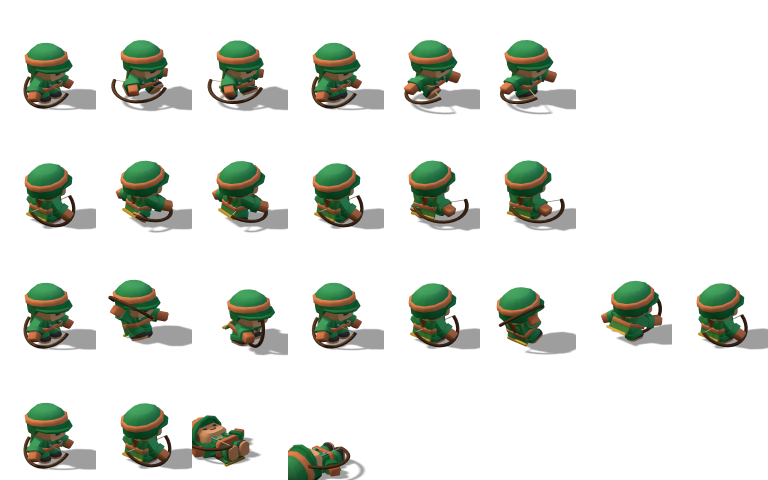
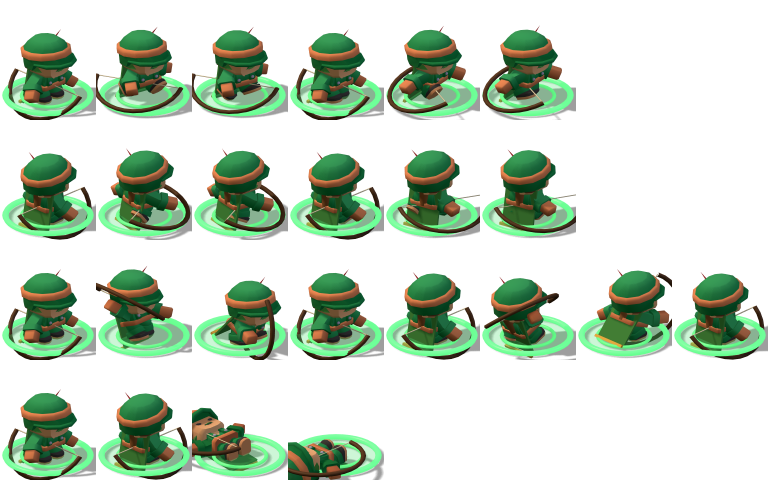
Héroes con diseño propio: más grandes, anillo de luz y piezas únicas (penacho, alas, llamas, cuernos)

diff --git a/tools/iso/designs.js b/tools/iso/designs.js
@@ -119,6 +119,72 @@ function quiver(arrowColor = C.marfil, tilt = 0.35) {
   return q;
 }
 
+/* ---------- piezas de héroe: lo que los distingue a primera vista de las tropas ---------- */
+
+/** Anillo luminoso en el suelo bajo el héroe (su color lo identifica de lejos). */
+function groundRing(color, r = 0.4) {
+  const g = new T.Group();
+  const ring = mesh(new T.TorusGeometry(r, 0.03, 8, 40), glow(color, 1.3), 0, 0.035, 0);
+  ring.rotation.x = Math.PI / 2;
+  const inner = mesh(new T.TorusGeometry(r * 0.62, 0.018, 8, 32), glow(color, 0.9), 0, 0.03, 0);
+  inner.rotation.x = Math.PI / 2;
+  const disc = mesh(new T.CircleGeometry(r, 36), new T.MeshBasicMaterial({ color, transparent: true, opacity: 0.3 }), 0, 0.02, 0);
+  disc.rotation.x = -Math.PI / 2;
+  g.add(disc, ring, inner);
+  return g;
+}
+/** Penacho de casco. */
+function plume(color = C.rojo) {
+  const g = new T.Group();
+  g.add(mesh(new T.CylinderGeometry(0.03, 0.04, 0.05, 8), mat(C.oro), 0, 0, 0));
+  for (const [x, y, rot, h] of [[0, 0.12, 0.5, 0.26], [0, 0.1, 0.25, 0.22], [0, 0.07, 0.8, 0.18]]) {
+    const f = mesh(new T.ConeGeometry(0.045, h, 6), mat(color, { roughness: 0.9, metalness: 0 }), x, y, -0.04);
+    f.rotation.x = -rot;
+    g.add(f);
+  }
+  return g;
+}
+/** Corona de oro con puntas. */
+function crown(gem = C.cian) {
+  const g = new T.Group();
+  g.add(mesh(new T.CylinderGeometry(0.1, 0.1, 0.05, 10, 1, true), mat(C.oro, { metalness: 0.5, side: T.DoubleSide }), 0, 0, 0));
+  for (let k = 0; k < 6; k++) {
+    const a = (k / 6) * Math.PI * 2;
+    g.add(mesh(new T.ConeGeometry(0.022, 0.08, 5), mat(C.oro, { metalness: 0.5 }), Math.cos(a) * 0.1, 0.06, Math.sin(a) * 0.1));
+  }
+  g.add(mesh(new T.OctahedronGeometry(0.03), glow(gem, 1.2), 0, 0.02, 0.1));
+  return g;
+}
+/** Cuernos de casco. */
+function horns(color = C.marfil) {
+  const g = new T.Group();
+  for (const sx of [-1, 1]) {
+    const h = mesh(new T.ConeGeometry(0.045, 0.24, 7), mat(color), sx * 0.15, 0.08, 0);
+    h.rotation.z = -sx * 0.9;
+    g.add(h);
+  }
+  return g;
+}
+/** Alas de plumas en la espalda. */
+function wings(color = C.marfil, tip = C.oro) {
+  const g = new T.Group();
+  for (const sx of [-1, 1]) {
+    for (let k = 0; k < 4; k++) {
+      const f = mesh(new T.BoxGeometry(0.2 - k * 0.015, 0.012, 0.07), mat(k === 3 ? tip : color, { roughness: 0.8, metalness: 0 }), sx * (0.15 + k * 0.06), 0.14 - k * 0.07, 0);
+      f.rotation.z = -sx * (0.45 + k * 0.28);
+      g.add(f);
+    }
+  }
+  return g;
+}
+/** Llama que arde sobre la mano del piromante. */
+function flame() {
+  const g = new T.Group();
+  g.add(mesh(new T.SphereGeometry(0.075, 12, 10), glow(C.fuego, 1.6), 0, 0, 0));
+  for (const [x, z, h, col] of [[0, 0, 0.24, 0xffcf4a], [0.05, 0.02, 0.16, C.fuego], [-0.05, -0.02, 0.18, C.fuego]]) g.add(mesh(new T.ConeGeometry(0.05, h, 7), glow(col, 1.4), x, 0.1 + h / 2 - 0.05, z));
+  return g;
+}
+
 /** Cuelga `item` de un hueso: p = [x, y, z], r = [rx, ry, rz] en grados. */
 function attach(obj, boneName, item, p = [0, 0, 0], r = [0, 0, 0], s = 1) {
   item.position.set(...p);
@@ -174,42 +240,58 @@ export const DESIGNS = {
   },
   async worker_3() { return { obj: await base('character-female-b'), scale: 1.1, worker: true }; },
   async worker_4() { return { obj: await base('character-male-f'), scale: 1.1, worker: true }; },
-  // Héroes
+  // Héroes: más grandes que las tropas, con anillo de luz en el suelo y piezas propias (penacho, alas, llamas, cuernos…)
   async unit_hero() {
-    const o = await base('character-knight', palette([[18, 40, 46, 1.1, 1.1]], oroGris));
-    inHand(o, sword(0xbfe9ff, C.oro, 0.36), 1.3);
-    onArm(o, shield(C.marfil, true, C.oro), 1.3);
-    withCape(o, cape(C.marfil, C.oro, 0.3, 0.38));
-    attach(o, 'head', halo(), [0, 0.28, 0], [90, 0, 0]);
-    return { obj: o, scale: 1.4 };
+    // Paladín: armadura dorada, casco con penacho, escudo con emblema, espada de luz y capa blanca
+    const o = await base('character-knight', palette([[18, 40, 46, 1.2, 1.15]], oroGris));
+    inHand(o, sword(0xbfe9ff, C.oro, 0.4), 1.45);
+    onArm(o, shield(C.marfil, true, C.oro), 1.45);
+    withCape(o, cape(C.marfil, C.oro, 0.36, 0.46));
+    attach(o, 'head', plume(C.rojo), [0, 0.26, -0.02], [0, 0, 0], 1.2);
+    attach(o, 'torso', shoulderPads(C.oro), [0, 0.28, 0], [0, 0, 0], 1.15);
+    attach(o, 'head', halo(), [0, 0.42, 0], [90, 0, 0]);
+    o.add(groundRing(C.oro));
+    return { obj: o, scale: 1.7 };
   },
   async hero_ranger() {
-    const o = await base('character-soldier', palette([[85, 170, 150, 1.2, 0.9]]));
-    inHand(o, bow(0x5a3a22, 0.46), 1.3);
-    withCape(o, cape(C.verde, C.oro, 0.28, 0.36));
-    attach(o, 'torso', quiver(C.oro, -0.35), [0, 0.15, -0.1]);
-    return { obj: o, scale: 1.4, ranged: true };
+    // Cazadora: verde bosque, capucha con pluma, gran arco, aljaba dorada y capa larga
+    const o = await base('character-soldier', palette([[85, 170, 150, 1.3, 0.85]]));
+    inHand(o, bow(0x5a3a22, 0.58), 1.45);
+    withCape(o, cape(C.verde, C.oro, 0.34, 0.5));
+    attach(o, 'torso', quiver(C.oro, -0.35), [0, 0.15, -0.1], [0, 0, 0], 1.2);
+    attach(o, 'head', mesh(new T.ConeGeometry(0.2, 0.26, 10), mat(C.verde, { roughness: 0.9, metalness: 0 })), [0, 0.2, -0.02]);
+    attach(o, 'head', mesh(new T.ConeGeometry(0.025, 0.3, 6), mat(C.rojo)), [0.1, 0.32, -0.04], [0, 0, -50]);
+    o.add(groundRing(0x56e07a));
+    return { obj: o, scale: 1.65, ranged: true };
   },
   async hero_priest() {
-    const o = await base('character-female-c');
-    inHand(o, staff(C.oro, 0.62), 1.1);
-    withCape(o, cape(C.marfil, C.oro, 0.3, 0.36));
-    attach(o, 'head', halo(), [0, 0.3, 0], [90, 0, 0]);
-    return { obj: o, scale: 1.4, ranged: true };
+    // Sacerdotisa: túnica blanca y dorada, alas de plumas, gran halo y bastón con cristal
+    const o = await base('character-female-c', palette([[200, 340, 48, 0.2, 1.4]]));
+    inHand(o, staff(C.oro, 0.75), 1.3);
+    withCape(o, cape(C.marfil, C.oro, 0.34, 0.48));
+    attach(o, 'torso', wings(C.marfil, C.oro), [0, 0.2, -0.13], [0, 0, 0], 1.25);
+    attach(o, 'head', halo(0xfff2a8), [0, 0.4, 0], [90, 0, 0], 1.3);
+    o.add(groundRing(0xfff2a8));
+    return { obj: o, scale: 1.65, ranged: true };
   },
   async hero_pyro() {
-    const o = await base('character-female-d');
-    attach(o, 'arm-right', mesh(new T.SphereGeometry(0.09, 12, 10), glow(C.fuego, 1.6)), [0, -0.14, 0.12]);
-    attach(o, 'head', wizardHat(C.rojo, C.oro), [0, 0.12, 0]);
-    withCape(o, cape(0x7a1a1f, C.fuego, 0.28, 0.36));
-    return { obj: o, scale: 1.4, ranged: true };
+    // Piromante: túnica roja y negra, sombrero alto, llama en la mano y capa de brasas
+    const o = await base('character-female-d', palette([[0, 360, 4, 1.2, 0.85]]));
+    attach(o, 'arm-right', flame(), [0, -0.16, 0.14], [0, 0, 0], 1.3);
+    attach(o, 'head', wizardHat(C.rojo, C.oro), [0, 0.12, 0], [0, 0, 0], 1.35);
+    withCape(o, cape(0x7a1a1f, C.fuego, 0.34, 0.5));
+    o.add(groundRing(C.fuego));
+    return { obj: o, scale: 1.65, ranged: true };
   },
   async hero_warlord() {
-    const o = await base('character-raider', palette([[0, 60, 4, 1.1, 0.9]], oroGris));
-    inHand(o, axe(0.5), 1.3);
-    attach(o, 'torso', shoulderPads(C.acero), [0, 0.28, 0]);
-    withCape(o, cape(C.rojo, C.oro, 0.32, 0.38));
-    return { obj: o, scale: 1.55 };
+    // Señor de la guerra: casco con cuernos, hombreras de acero, hacha enorme y capa roja
+    const o = await base('character-raider', palette([[0, 60, 4, 1.2, 0.85]], oroGris));
+    inHand(o, axe(0.62), 1.5);
+    attach(o, 'torso', shoulderPads(C.acero), [0, 0.28, 0], [0, 0, 0], 1.3);
+    attach(o, 'head', horns(), [0, 0.22, 0], [0, 0, 0], 1.3);
+    withCape(o, cape(C.rojo, C.oro, 0.38, 0.5));
+    o.add(groundRing(C.rojo));
+    return { obj: o, scale: 1.8 };
   },
   // Horda (enemigos)
   async enemy_guard() {
